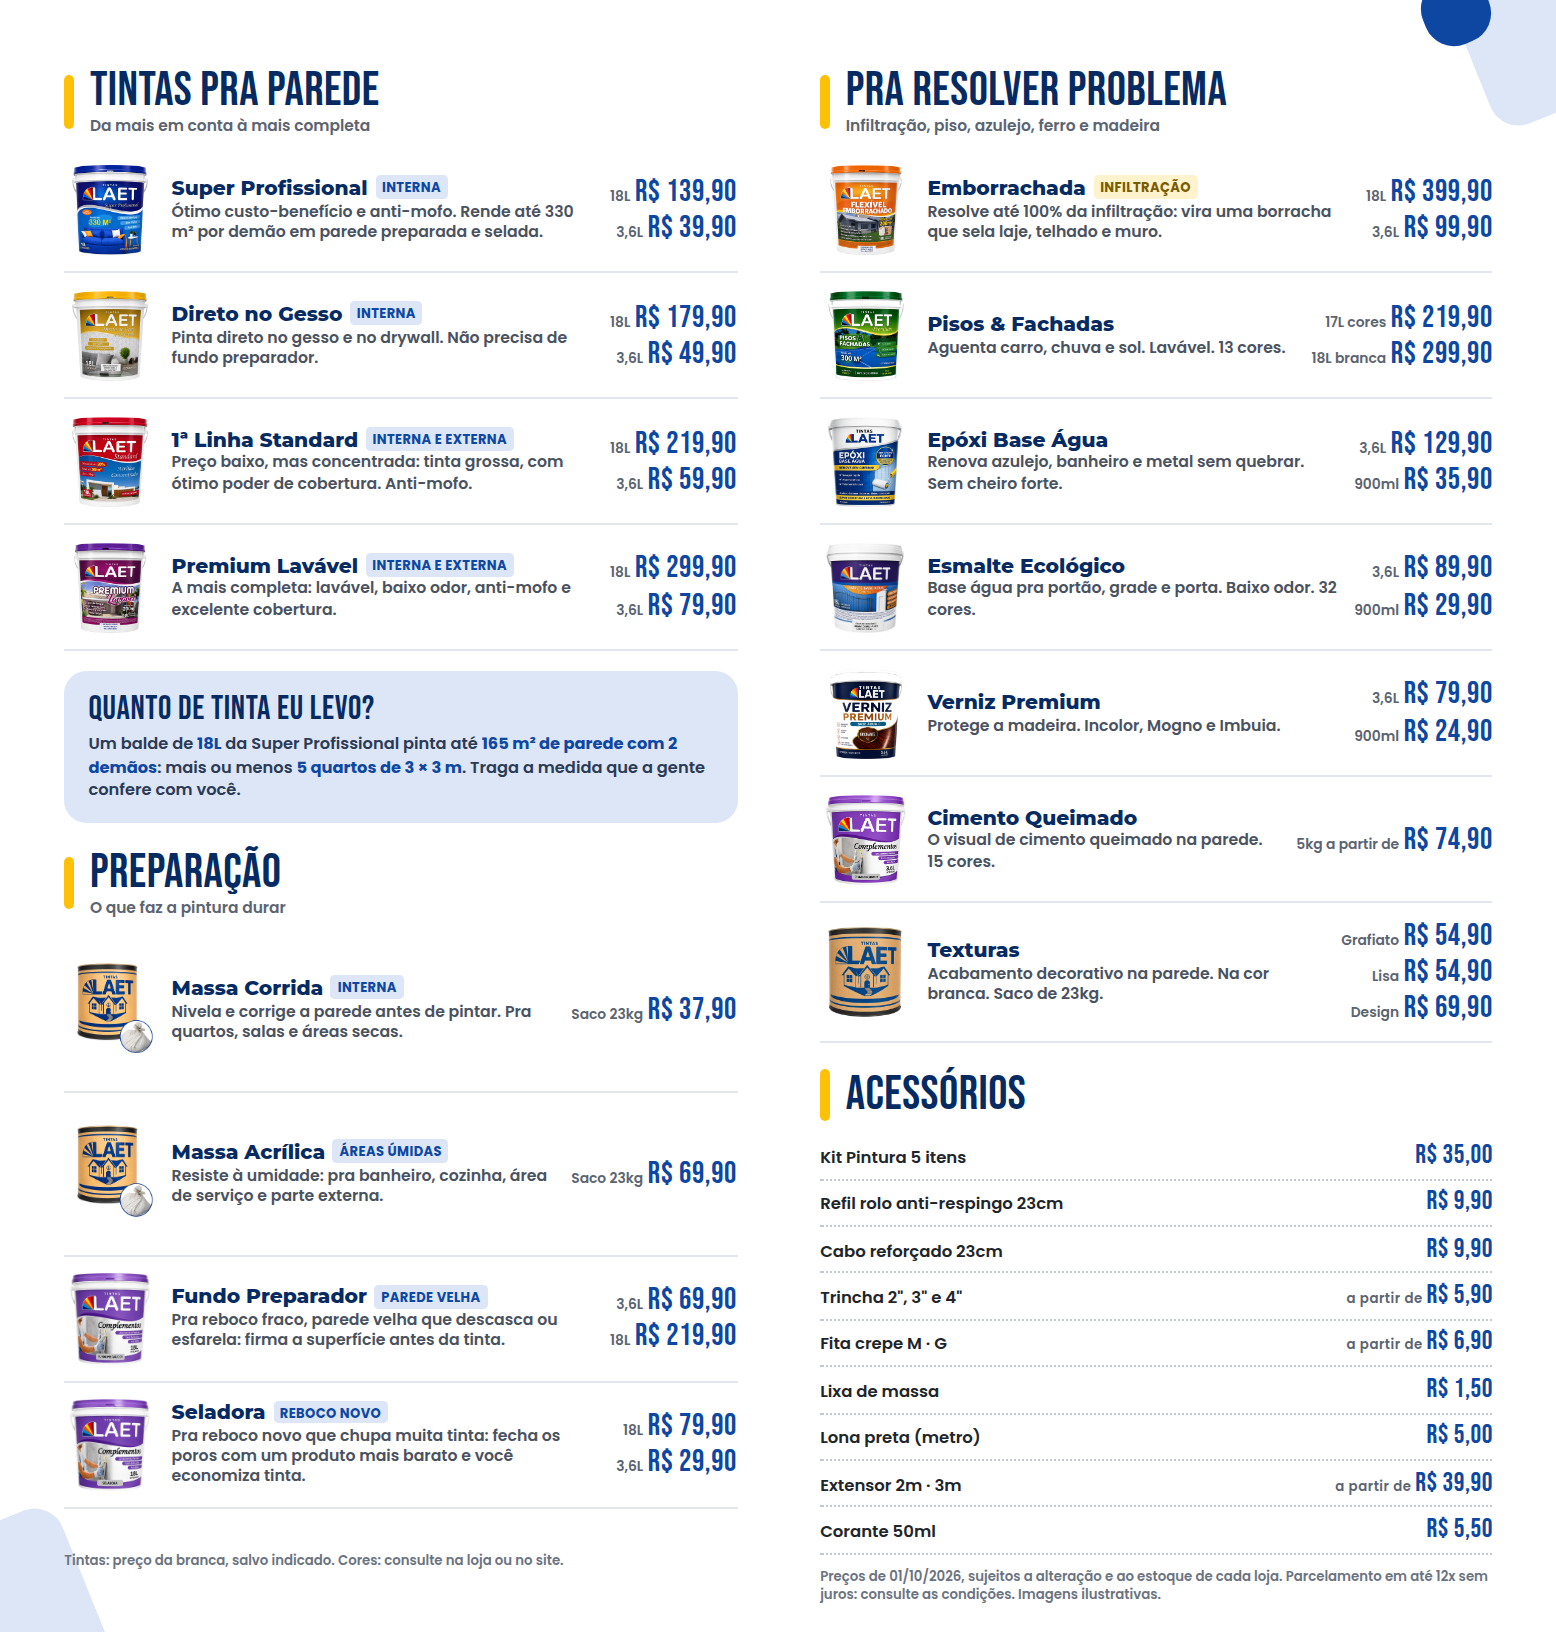
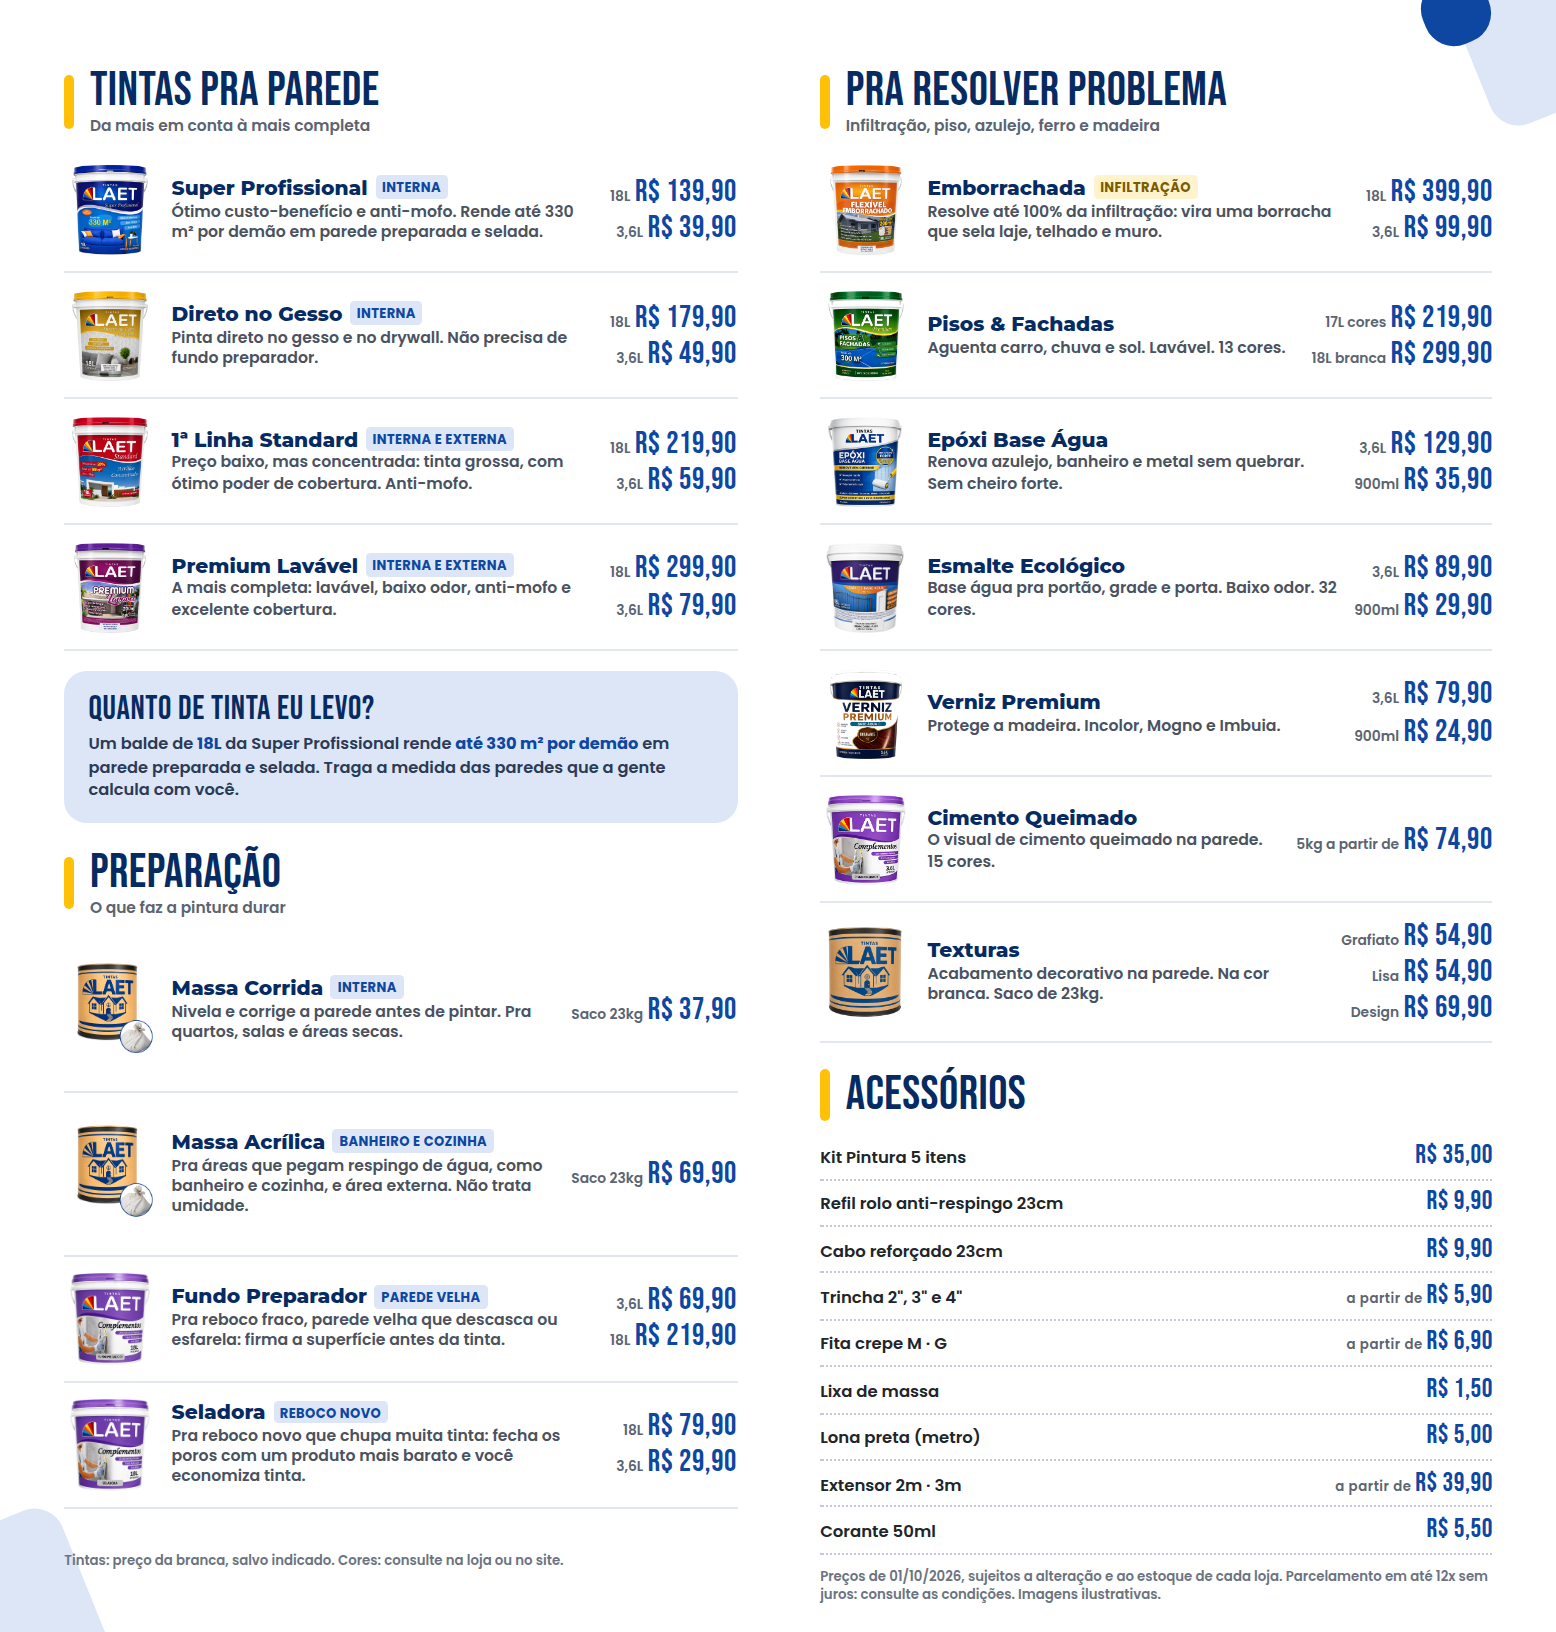
Folder: massa acrílica sem prometer resistência à umidade; quadro azul com 330 m² por demão
Claude-Session: https://claude.ai/code/session_01T1juQ1HtmtgQCZ8aLE8q1u

Changed region(s): [[0.0617, 0.4375, 0.4319, 0.5], [0.0925, 0.6875, 0.3393, 0.75]]

diff --git a/saidas/folder-guia-pintura-10x21-2026-10/folder.html b/saidas/folder-guia-pintura-10x21-2026-10/folder.html
@@ -241,7 +241,7 @@ body { font-family:'Poppins',sans-serif; color:var(--grafite); }
 
       <div class="box claro">
         <h3>Quanto de tinta eu levo?</h3>
-        <p>Um balde de <b>18L</b> da Super Profissional pinta até <b>165 m² de parede com 2 demãos</b>: mais ou menos <b>5 quartos de 3 × 3 m</b>. Traga a medida que a gente confere com você.</p>
+        <p>Um balde de <b>18L</b> da Super Profissional rende <b>até 330 m² por demão</b> em parede preparada e selada. Traga a medida das paredes que a gente calcula com você.</p>
       </div>
 
       <div class="sec" style="margin-top:3.4mm"><div class="bar"></div><h2>Preparação<small>O que faz a pintura durar</small></h2></div>
@@ -252,8 +252,8 @@ body { font-family:'Poppins',sans-serif; color:var(--grafite); }
       </div><div class="pr"><div>Saco 23kg<b data-preco="massa-corrida|Saco 23kg">R$ 37,90</b></div></div></div>
 
       <div class="prod"><img class="alta" src="img/massa.png" alt=""><div>
-        <div class="nm">Massa Acrílica<em>Áreas úmidas</em></div>
-        <div class="ds">Resiste à umidade: pra banheiro, cozinha, área de serviço e parte externa.</div>
+        <div class="nm">Massa Acrílica<em>Banheiro e cozinha</em></div>
+        <div class="ds">Pra áreas que pegam respingo de água, como banheiro e cozinha, e área externa. Não trata umidade.</div>
       </div><div class="pr"><div>Saco 23kg<b data-preco="massa-acrilica|Saco 23kg">R$ 69,90</b></div></div></div>
 
       <div class="prod"><img src="img/fundo.png" alt=""><div>

diff --git a/templates/folder-guia-pintura-10x21/folder.html b/templates/folder-guia-pintura-10x21/folder.html
@@ -241,7 +241,7 @@ body { font-family:'Poppins',sans-serif; color:var(--grafite); }
 
       <div class="box claro">
         <h3>Quanto de tinta eu levo?</h3>
-        <p>Um balde de <b>18L</b> da Super Profissional pinta até <b>165 m² de parede com 2 demãos</b>: mais ou menos <b>5 quartos de 3 × 3 m</b>. Traga a medida que a gente confere com você.</p>
+        <p>Um balde de <b>18L</b> da Super Profissional rende <b>até 330 m² por demão</b> em parede preparada e selada. Traga a medida das paredes que a gente calcula com você.</p>
       </div>
 
       <div class="sec" style="margin-top:3.4mm"><div class="bar"></div><h2>Preparação<small>O que faz a pintura durar</small></h2></div>
@@ -252,8 +252,8 @@ body { font-family:'Poppins',sans-serif; color:var(--grafite); }
       </div><div class="pr"><div>Saco 23kg<b data-preco="massa-corrida|Saco 23kg"></b></div></div></div>
 
       <div class="prod"><img class="alta" src="img/massa.png" alt=""><div>
-        <div class="nm">Massa Acrílica<em>Áreas úmidas</em></div>
-        <div class="ds">Resiste à umidade: pra banheiro, cozinha, área de serviço e parte externa.</div>
+        <div class="nm">Massa Acrílica<em>Banheiro e cozinha</em></div>
+        <div class="ds">Pra áreas que pegam respingo de água, como banheiro e cozinha, e área externa. Não trata umidade.</div>
       </div><div class="pr"><div>Saco 23kg<b data-preco="massa-acrilica|Saco 23kg"></b></div></div></div>
 
       <div class="prod"><img src="img/fundo.png" alt=""><div>

diff --git a/CLAUDE.md b/CLAUDE.md
@@ -116,7 +116,7 @@ Usar essas informações como base pra qualquer resposta ou decisão.
 - **Direto no Gesso:** **não necessita de fundo preparador** — falar assim, que o cliente entende.
 - **1ª Linha Standard:** tinta de **baixo custo, mas concentrada, grossa e com bom poder de cobertura**.
 - **Massa Corrida:** só **área interna e seca** (quartos, salas). Nivela e corrige a parede antes de pintar.
-- **Massa Acrílica:** pra **áreas úmidas** — banheiro, cozinha, área de serviço — e área externa.
+- **Massa Acrílica:** pra áreas que **pegam respingo de água** (banheiro, cozinha) e área externa. **Nunca dizer que resiste/resolve umidade** — senão o cliente usa pra tratar umidade (correção do Kevin, 01/10/2026).
 - **Fundo Preparador:** pra **reboco fraco e parede velha** — que descasca, esfarela, está fraca. Firma a superfície antes da tinta.
 - **Seladora:** pra **parede nova / reboco novo que chupa muita tinta**. É uma película inicial de um produto mais grosso e **mais barato que a tinta**: preenche os poros do reboco e economiza tinta.
 - **Emborrachada:** comunicar que **resolve até 100% do problema de infiltração** (laje, telhado, muro).
